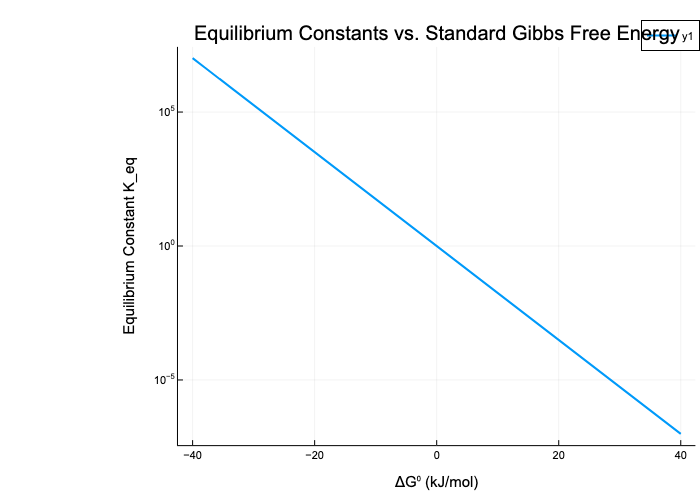
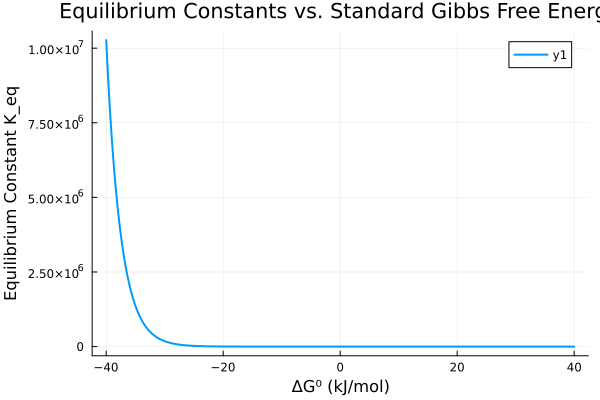
Update README.md with correct repository link and remove outdated plot explanations; update visualization function to restore default y-scale for equilibrium constants plot.

diff --git a/README.md b/README.md
@@ -8,7 +8,7 @@ A Julia package for simulating and analyzing two-enzyme systems with detailed re
 2. Clone this repository:
 
 ```bash
-git clone https://github.com/yourusername/TwoEnzymeSim.git
+git clone https://github.com/ryanguo13/TwoEnzymeSim.git
 cd TwoEnzymeSim
 ```
 
@@ -33,55 +33,3 @@ The package provides several examples in the `examples` directory. To run the ba
 ```julia
 julia --project examples/basic_simulation.jl
 ```
-
-This will:
-
-1. Simulate the two-enzyme system
-2. Calculate reaction fluxes
-3. Generate three plots:
-   - `concentration_and_fluxes.png`: Shows the concentration profiles and reaction fluxes over time
-   - `phase_portrait.html`: An interactive 3D plot showing the system's phase space trajectory
-
-### Plot Explanations
-
-#### Concentration and Fluxes Plot
-
-- **Top Panel**: Shows the concentration profiles of species A, B, and C over time
-- **Bottom Panel**: Displays the reaction fluxes for all six reactions:
-  - A→B: Forward reaction
-  - B→A: Reverse reaction
-  - B→C: Second enzyme forward reaction
-  - C→B: Second enzyme reverse reaction
-  - A→C: Direct conversion
-  - C→A: Direct reverse conversion
-
-#### Phase Portrait (3D Interactive Plot)
-
-- Shows the system's trajectory in the 3D space of concentrations [A], [B], and [C]
-- Green marker indicates the starting point
-- Red marker indicates the ending point
-- The trajectory shows how the system evolves from initial conditions to steady state
-- You can rotate and zoom the plot in your web browser to better understand the system's dynamics
-
-## Project Structure
-
-```
-TwoEnzymeSim/
-├── src/
-│   ├── simulation.jl    # Core simulation functions
-│   ├── parameters.jl    # System parameters and initial conditions
-│   ├── analysis.jl      # Analysis functions
-│   └── visualization.jl # Plotting functions
-├── examples/
-│   └── basic_simulation.jl  # Basic usage example
-└── test/
-    └── runtests.jl     # Test suite
-```
-
-## Features
-
-- Detailed reaction kinetics simulation
-- Multiple reaction pathways
-- Interactive 3D phase space visualization
-- Flux analysis
-- Parameter sensitivity analysis
